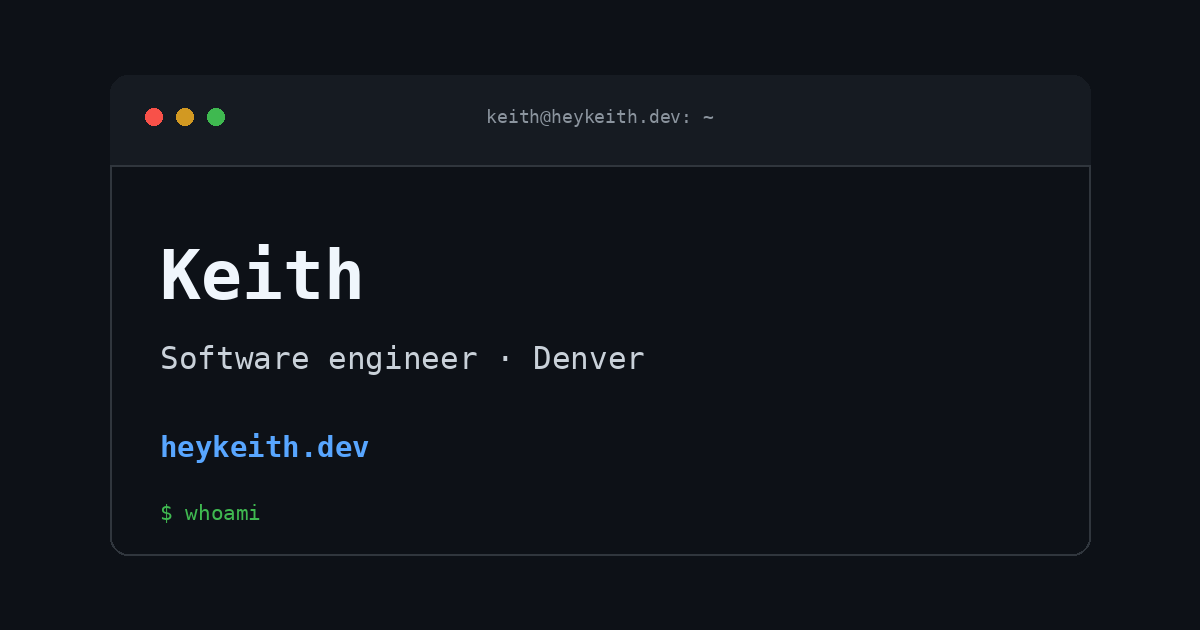
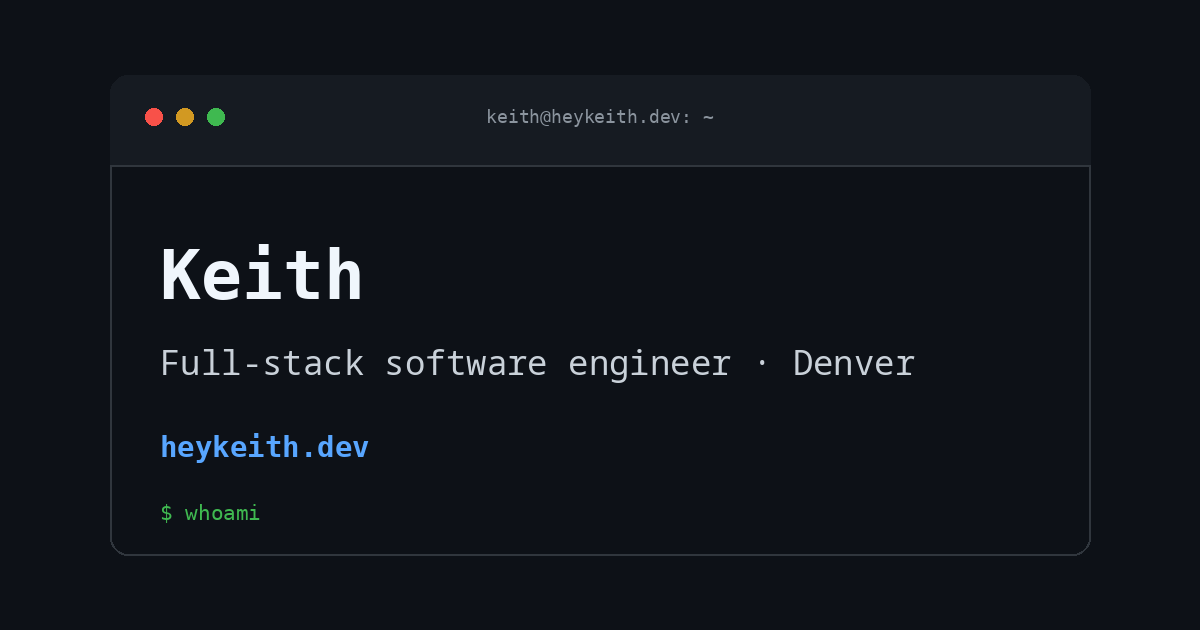
Update portfolio content and terminal fixes (#8)
* Keep link hover color on accent

* Align terminal cursor with text caret

* Update profile and project details

Refresh the supplied profile and project copy without adding unconfirmed role claims, remove the outdated event entry, and align the OG subtitle with the full-stack positioning. Retain the internship placement for SOAR and integration work pending owner confirmation.

* Update portfolio experience and project details

---------

Changed region(s): [[0.1233, 0.5429, 0.6167, 0.6032], [0.6475, 0.5429, 0.7708, 0.6032]]

diff --git a/assets/js/terminal.js b/assets/js/terminal.js
@@ -13,10 +13,13 @@
   const positionCursor = () => {
     const inputStyle = getComputedStyle(input);
 
-    measureContext.font = inputStyle.font;
-    const caretPosition = input.selectionStart ?? input.value.length;
+    measureContext.font = `${inputStyle.fontStyle} ${inputStyle.fontWeight} ${inputStyle.fontSize} ${inputStyle.fontFamily}`;
+    const caretPosition = input.selectionDirection === "backward"
+      ? input.selectionStart
+      : input.selectionEnd;
     const textWidth = measureContext.measureText(input.value.slice(0, caretPosition)).width;
-    inputWrap.style.setProperty("--terminal-cursor-offset", `${textWidth - input.scrollLeft}px`);
+    const letterSpacing = inputStyle.letterSpacing === "normal" ? 0 : Number.parseFloat(inputStyle.letterSpacing);
+    inputWrap.style.setProperty("--terminal-cursor-offset", `${textWidth + letterSpacing * caretPosition - input.scrollLeft}px`);
   };
 
   const findSection = (sectionName) => Array.from(document.querySelectorAll(".page-content h2"))
@@ -75,6 +78,7 @@
   input.addEventListener("click", positionCursor);
   input.addEventListener("scroll", positionCursor);
   input.addEventListener("select", positionCursor);
+  window.addEventListener("resize", positionCursor);
   input.addEventListener("keydown", (event) => {
     if (event.key === "ArrowUp") {
       event.preventDefault();

diff --git a/_includes/head.html b/_includes/head.html
@@ -2,7 +2,8 @@
   <meta charset="utf-8">
   <meta http-equiv="X-UA-Compatible" content="IE=edge">
   <meta name="viewport" content="width=device-width, initial-scale=1">
-  {%- seo -%}
+  <title>{{ site.title | escape_once }}</title>
+  {%- seo title=false -%}
   <link rel="stylesheet" href="{{ '/assets/main.css' | relative_url }}">
   <link rel="stylesheet" href="{{ '/assets/css/style.css' | relative_url }}">
   <link rel="icon" type="image/svg+xml" href="{{ '/favicon.svg' | relative_url }}">

diff --git a/assets/css/style.scss b/assets/css/style.scss
@@ -162,6 +162,7 @@ a:visited {
 }
 
 a:hover {
+  color: var(--accent);
   text-decoration-thickness: 0.14em;
 }
 
@@ -244,10 +245,11 @@ a:hover {
 .terminal__cursor {
   display: block;
   position: absolute;
-  top: 0.1em;
+  top: 50%;
+  transform: translateY(-50%);
   left: var(--terminal-cursor-offset, 0);
   width: 0.55em;
-  height: 1em;
+  height: 1.55em;
   background: var(--prompt);
   pointer-events: none;
   animation: terminal-cursor-blink 1.1s steps(2, start) infinite;

diff --git a/index.md b/index.md
@@ -1,6 +1,6 @@
 ---
-title: heykeith.dev
-description: Software engineer in Denver building reliable data and financial systems in C#/.NET, Blazor, and SQL.
+title: Keith \| Full-stack software engineer
+description: Full-stack software engineer in Denver. I build reliable financial systems in C#/.NET and SQL Server, and full-stack TypeScript apps with React and Postgres. Security-minded, with a background in security automation.
 image: /assets/og.png
 layout: default
 ---
@@ -14,26 +14,42 @@ layout: default
 
 ## whoami
 
-Software engineer in Denver. I build reliable data and financial systems in **C#/.NET, Blazor, and SQL**.
+Full-stack software engineer in Denver. I build reliable financial systems in C#/.NET and SQL Server, and full-stack TypeScript apps with React and Postgres. Security-minded, with a background in security automation.
 
 ## cat work.log
 - **Software Engineer (Specialist), Charles Schwab** <span class="muted">June 2026–present</span>
-  - Cut user data upload time from up to 15 minutes to 30 seconds, and bulk upload processing from 1.5 hours to 10 minutes, using C# bulk inserts and set-based SQL.
-  - Primary production support for about 30 time-sensitive daily batch jobs; wrote a same-day recovery runbook and reran every job in dependency order to meet audit deadlines.
+  - Develop C#/.NET and SQL Server applications for daily reserve calculations and monthly balance certification, partnering with Treasury and Finance.
+  - Sped up data loads up to 30x (15 min to 30 s, 90 min to 10 min) with C# bulk inserts and set-based SQL.
+  - Support production for the team's daily batch ETL jobs (Informatica IICS, Control-M).
+  - Rolled out SAST and SCA scanning in the team's CI/CD pipelines.
 - **Cybersecurity Automation Engineer (Associate), Charles Schwab** <span class="muted">June 2025–June 2026</span>
-  - Automated cybersecurity workflows with Appian and Microsoft Power Platform.
+  - Designed and built an OAuth 2.0 integration with a data security platform; passed architecture review.
+  - Built API integrations with new security platforms for other security teams.
+  - Created a new connection method giving security teams centralized access to an internal security data warehouse.
+  - Delivered a DLP metrics dashboard from design through UAT to production, with automated daily metrics emails.
 - **Cybersecurity Automation Engineer (Intern), Charles Schwab** <span class="muted">June–August 2024</span>
   - Wrote Python playbooks in Google Chronicle SOAR to automate incident response.
   - Designed new SOAR integrations with product owners.
   - Automated security operations center analyst workflows in Appian.
   - Returned full time to the same team after the internship (return offer).
-  <!-- TODO: OWNER CONFIRM whether SOAR playbooks and integrations continued in the Associate role; keep these claims under the internship until confirmed. -->
 
 ## ls projects/
-- **[Open Skillet](https://openskillet.com):** version control for recipes. Fork a recipe, edit it, and propose changes back. [Source on GitHub](https://github.com/dnerever/OpenRecipe).
-  - TypeScript, React, Node.js, PostgreSQL; hosted on Render, with GitHub Actions CI, Playwright end-to-end tests, and CodeQL/Dependabot scanning.
-- **DonorEngine:** a direct-mail planner for nonprofits, built solo in a 24-hour hackathon. Code available on request.
-- **LambdaConf 2024 Hackathon:** track winner; co-built a matching engine in TypeScript on DBOS Cloud.
+- **Open Skillet ([openskillet.com](https://openskillet.com) · [source](https://github.com/dnerever/OpenRecipe)):** version control for recipes. Fork a recipe, edit it, and propose changes back.
+  - TypeScript, React, Node.js, PostgreSQL; deployed on Render.
+  - Email sign-up, email-based password reset, and rate limiting.
+  - CI in GitHub Actions: unit tests, Playwright end-to-end tests, accessibility checks, CodeQL, and Dependabot.
+- **DonorEngine ([live demo](https://donorengine.onrender.com/)):** a direct-mail planner for nonprofits, built solo in a 24-hour hackathon. Rules set every amount and date, an LLM writes the copy, and every AI-generated line passes a grounding check. An in-browser prediction model is tested against baselines. TypeScript. Code available on request.
+
+## cat skills.txt
+
+```
+$ cat skills.txt
+
+Languages: C#, TypeScript, SQL, Python
+Frameworks: .NET, Blazor, React, Node.js
+Data: SQL Server, PostgreSQL
+Practices: CI/CD (GitHub Actions), automated testing, SAST/SCA, OAuth 2.0
+```
 
 ## contact &#45;&#45;all
 - Email: [keith@heykeith.dev](mailto:keith@heykeith.dev)
